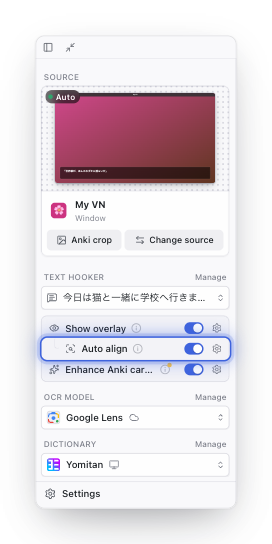
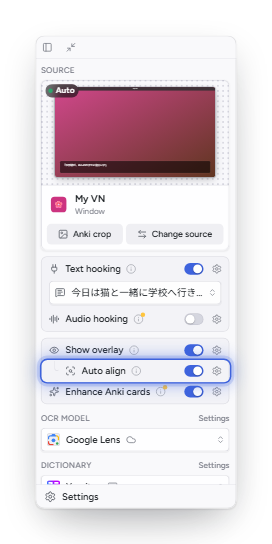
Docs and demo: Text hooking is a switch under a game's window
The guide, the site and the homepage demo follow the source panel: choose
the game's window, then turn on Text hooking (and Audio hooking). The demo's
mocks give each window its game, hook only once the switch is on, and the
tour walks through the switch instead of a Text Hooker grid. New screenshot
of the switch; the source-menu ones are gone.

diff --git a/frontend/dev/preview-setup.ts b/frontend/dev/preview-setup.ts
@@ -13,8 +13,10 @@
  *   ?theme=light|dark|system  seeds the `appearance` setting (default: system, i.e. the browser's
  *                    prefers-color-scheme; emulate it in DevTools for CSS that reads the media query)
  *   ?scale=small|medium|large|xlarge  seeds the `interfaceScale` setting
- *   ?input=ocr|clipboard|websocket|hook  main window: the Log's input source (hook: a hooked game
- *                                   with its threads; pair it with ?platform=windows)
+ *   ?input=ocr|clipboard|websocket|hook  main window: the Log's input source (hook: Text hooking
+ *                                   on for the chosen game, hooked with its threads; pair it with
+ *                                   ?platform=windows. With ocr there, the game's Text hooking box
+ *                                   shows with its switch off)
  *   ?quickshot=1     main window: Quick Shot (with input=ocr)
  *   ?nosource=1      main window: no window or screen chosen yet (choosing one in Change source
  *                    selects it: the view state follows `commit_source`, `clear_source` and the
@@ -248,17 +250,46 @@ const HOOK_THREADS = [
   { key: '1:2:4f2b:0', name: 'DrawTextW', hookcode: 'HQ-24@0:user32.dll:DrawTextW', preview: 'ミサキ', count: 12, generic: true, selected: false },
   { key: '1:3:5164:0', name: 'DrawTextExW', hookcode: 'HQ-24@0:user32.dll:DrawTextExW', preview: 'オート　スキップ　セーブ', count: 3, generic: true, selected: false }
 ]
-/** Embedded: the site's demo has hooked its game once (see `texthook_start`). */
-let embedHooked = false
+/** The hooked game of `?input=hook` (Settings → Text Hooker's first game). */
+const PRESET_EXE = 'C:/Games/Moonlit Harbor/Game.exe'
+/**
+ * The game behind a window, as `texthook_targets` names it. Outside the site's demo the preset
+ * window is the preset game; elsewhere (and always in the demo, whose game is new to Kimochi) a
+ * game of its own, so Text hooking starts off for it.
+ */
+function hookExeOf(source: DemoSource): string {
+  if (!EMBED && source.id === 'window:101') return PRESET_EXE
+  const app = source.app ?? source.name
+  return `C:/Games/${app}/${app.replace(/[^\w]+/g, '')}.exe`
+}
+/**
+ * Embedded: what the demo's own game starts as once hooked (new to Kimochi, Auto align off), by
+ * game key. Kept under every write of `textHookerGames`, so the source panel's own write of its
+ * Text hooking switch, racing `texthook_start`, cannot drop it.
+ */
+const embedGames: HookGames = {}
+function withEmbedGames(games: HookGames, add?: string): HookGames {
+  const next = { ...games }
+  for (const [key, base] of Object.entries(embedGames))
+    if (next[key] || key === add) next[key] = { ...base, ...next[key] }
+  return next
+}
+/** The window that cannot be hooked (a tiny utility, "part of Windows"), outside the site's demo. */
+const UNHOOKABLE = EMBED ? null : 'window:107'
+/**
+ * The hook session. `?input=hook` starts with the chosen game hooked. In the site's demo otherwise
+ * nothing is hooked until the visitor turns Text hooking on (`texthook_start`).
+ */
+const PRESET_HOOKED = !EMBED || params.get('input') === 'hook'
 const HOOK_STATUS: Record<string, unknown> & { threads: typeof HOOK_THREADS } = {
   supported: true,
-  phase: 'hooked',
-  sourceId: 'window:101',
-  exe: 'C:/Games/Moonlit Harbor/Game.exe',
+  phase: PRESET_HOOKED ? 'hooked' : 'idle',
+  sourceId: PRESET_HOOKED ? 'window:101' : null,
+  exe: PRESET_HOOKED ? (EMBED ? hookExeOf(SOURCES.find((s) => s.id === 'window:101')!) : PRESET_EXE) : null,
   engine: { id: 'luna', name: 'LunaHook', version: '12.1.3.8' },
   selected: HOOK_THREADS[0].key,
   selectedBy: 'auto',
-  threads: HOOK_THREADS
+  threads: PRESET_HOOKED ? HOOK_THREADS : []
 }
 
 // ---------------------------------------------------------------- settings store
@@ -279,7 +310,7 @@ const settings: Record<string, unknown> = {
   // Settings → Text Hooker: the hooked game, with a few settings of its own, and one hooked before.
   textHookerGames: {
     'c:/games/moonlit harbor/game.exe': {
-      exe: 'C:/Games/Moonlit Harbor/Game.exe',
+      exe: PRESET_EXE,
       sessionId: SESSION_IDS.steinsGate,
       name: 'Moonlit Harbor',
       addedAt: Date.now() - 9 * 86_400_000,
@@ -731,14 +762,16 @@ const DEMO_SETTINGS = new Set([
   'superTexthooker',
   'texthookerSourceSessions',
   'texthookerIngestedHistory',
-  // Auto align, and the Text Hooker's other per-game switches in the source panel.
+  // Text hooking, Auto align and the other per-game switches in the source panel.
   'textHookerGames'
 ])
 
 /** What a stopped setting is called on the site, for the ones the demo's own controls reach. */
 const DEMO_SETTING_LABELS: Record<string, string> = {
   ocrMode: 'Switching OCR models',
-  yomitanSettings: 'Switching dictionaries'
+  yomitanSettings: 'Switching dictionaries',
+  // Audio hooking, in the Text hooking box.
+  sentenceAudio: 'Changing sentence audio'
 }
 
 /** When the visitor last pressed or typed in this page (trusted events only). */
@@ -842,8 +875,9 @@ const HANDLERS: Record<string, Handler> = {
   settings_set: (a) => {
     if (a?.key === 'hasCompletedOnboarding' && params.get('step') === 'error')
       throw 'io: the settings file is read-only (preview)'
-    publish(String(a?.key), a?.value)
-    onModelSettingSet(String(a?.key), a?.value)
+    const value = EMBED && a?.key === 'textHookerGames' ? withEmbedGames((a.value as HookGames | null) ?? {}) : a?.value
+    publish(String(a?.key), value)
+    onModelSettingSet(String(a?.key), value)
     if (a?.key === 'textHookerGames') tellEmbedderState()
     return null
   },
@@ -927,14 +961,20 @@ const HANDLERS: Record<string, Handler> = {
       bounds: s.bounds,
       on_screen: s.on_screen
     })),
-  // Text Hooker (src-tauri/src/text_hook): every window but the first can be hooked (embedded in
-  // the site's demo, every one: its game may be the only window offered).
+  // Text hooking (src-tauri/src/text_hook): every window but one tiny utility can be hooked, each
+  // with its game's exe, which the source panel's Text hooking switch is kept by (embedded in the
+  // site's demo, every one: its game may be the only window offered).
   texthook_targets: (a) =>
     Object.fromEntries(
-      ((a?.sourceIds as string[] | undefined) ?? []).map((id, i) => [
-        id,
-        i === 0 && !EMBED ? { hookable: false, reason: 'this is part of Windows' } : { hookable: true, bits: 32 }
-      ])
+      ((a?.sourceIds as string[] | undefined) ?? []).map((id) => {
+        const source = ALL_SOURCES.find((s) => s.id === id)
+        return [
+          id,
+          !source || source.kind === 'display' || id === UNHOOKABLE
+            ? { hookable: false, reason: 'this is part of Windows' }
+            : { hookable: true, bits: 32, exe: hookExeOf(source) }
+        ]
+      })
     ),
   texthook_status: () => HOOK_STATUS,
   texthook_game: () => ({ thread: 'HS-4@1A2B3:Game.exe' }),
@@ -942,34 +982,48 @@ const HANDLERS: Record<string, Handler> = {
   texthook_forget: () => null,
   texthook_insert: () => null,
   texthook_start: (a) => {
-    // Hooking another window (the site's demo hooks its own game): that window's game.
+    // Hooking another window (the site's demo hooks its own game, once its Text hooking switch is
+    // turned on): that window's game.
     const source = ALL_SOURCES.find((s) => s.id === a?.sourceId)
-    // Embedded, the first hook is always a new one (the preset status already names the game's window).
-    if (source && (source.id !== HOOK_STATUS.sourceId || (EMBED && !embedHooked))) {
-      embedHooked = true
+    if (source && (source.id !== HOOK_STATUS.sourceId || HOOK_STATUS.phase === 'idle')) {
       HOOK_STATUS.sourceId = source.id
-      const app = source.app ?? source.name
-      HOOK_STATUS.exe = `C:/Games/${app}/${app.replace(/[^\w]+/g, '')}.exe`
+      const exe = hookExeOf(source)
+      HOOK_STATUS.exe = exe
       if (EMBED) {
         // The site's demo: the game is new to Kimochi, with Auto align off for the visitor to turn
-        // on, and hooking takes a moment (attaching, then the threads), as it does for real.
-        const exe = String(HOOK_STATUS.exe)
-        const games = { ...((settings.textHookerGames as HookGames | undefined) ?? {}) }
-        games[gameKey(exe)] = { exe, name: app, sessionId: SESSION_IDS.steinsGate, addedAt: Date.now(), hookedAt: Date.now(), autoAlign: false }
-        publish('textHookerGames', games)
+        // on (its Text hooking switch, just saved, is kept), and hooking takes a moment
+        // (attaching, then the threads), as it does for real.
+        const app = source.app ?? source.name
+        const key = gameKey(exe)
+        embedGames[key] ??= { exe, name: app, sessionId: SESSION_IDS.steinsGate, addedAt: Date.now(), autoAlign: false }
+        embedGames[key].hookedAt = Date.now()
+        publish('textHookerGames', withEmbedGames((settings.textHookerGames as HookGames | undefined) ?? {}, key))
         HOOK_STATUS.phase = 'attaching'
         HOOK_STATUS.threads = []
         setTimeout(() => {
+          if (HOOK_STATUS.sourceId !== source.id || HOOK_STATUS.phase !== 'attaching') return
+          // Hooked: the game's record again, past any write that raced the first one.
+          embedGames[key].hookedAt = Date.now()
+          publish('textHookerGames', withEmbedGames((settings.textHookerGames as HookGames | undefined) ?? {}, key))
           HOOK_STATUS.phase = 'hooked'
           HOOK_STATUS.threads = HOOK_THREADS.map((t) => ({ ...t, selected: t.key === HOOK_STATUS.selected }))
           pushHookStatus()
         }, 1800)
+      } else {
+        HOOK_STATUS.phase = 'hooked'
+        HOOK_STATUS.threads = HOOK_THREADS.map((t) => ({ ...t, selected: t.key === HOOK_STATUS.selected }))
       }
+      setTimeout(pushHookStatus, 0)
     }
     setTimeout(tellEmbedderState, 0)
     return { ...HOOK_STATUS }
   },
-  texthook_stop: () => ({ supported: true, phase: 'idle', threads: [] }),
+  // Clearing the source lets the game go: the next Text hooking switch on hooks it afresh.
+  texthook_stop: () => {
+    Object.assign(HOOK_STATUS, { phase: 'idle', sourceId: null, exe: null, threads: [] })
+    setTimeout(pushHookStatus, 0)
+    return { ...HOOK_STATUS }
+  },
   texthook_select: (a) => {
     const key = (a?.key as string | null) ?? null
     HOOK_STATUS.selected = key ?? HOOK_THREADS[0].key
@@ -1399,7 +1453,7 @@ function listenToEmbedder(): void {
       // A hooked game's line, as native sends it (src-tauri/src/text_hook): no scan, it just arrives.
       scriptStopped = true
       void emit('texthook-line', { text: message.text, key: HOOK_STATUS.selected, at: Date.now(), id: `embed-hook-${++embedScan}` })
-      // The thread's preview is the line it just read (the source panel's Text Hooker picker).
+      // The thread's preview is the line it just read (the Text hooking box's hooked text select).
       HOOK_STATUS.threads = HOOK_STATUS.threads.map((t) => (t.key === HOOK_STATUS.selected ? { ...t, preview: message.text, count: t.count + 1 } : t))
       pushHookStatus()
     } else if (message.type === 'theme') {

diff --git a/site/src/demo/LiveDemo.tsx b/site/src/demo/LiveDemo.tsx
@@ -10,7 +10,7 @@
  * play button. Play starts the guided tour (guide/Guide.tsx, scripted in guide/script.json): Mochiko,
  * in a visual-novel dialogue box, asks the visitor to open Kimochi and the game, choose the game as
  * the source (the real Change source menu, inside the iframe), turn on Auto OCR, look a word up,
- * add it to Anki, and optionally try the Text Hooker (a Windows desk, on other platforms). The game
+ * add it to Anki, and optionally turn on Text hooking for the game (a Windows desk, on other platforms). The game
  * waits on each line for a click, like a visual novel.
  *
  * The windows behave like windows, through a few light shims (frontend/dev/preview-setup.ts):
@@ -22,8 +22,8 @@
  * switches back, so the game is read only while Kimochi watches it with Auto OCR on, and the overlay
  * shows only with Show overlay on. Narrower screens, and reduced motion, get the two windows stacked, already set up.
  *
- * The platform comes in as a prop: the visitor's OS for the OCR tab, Windows for the Text Hooker
- * tab (`input="hook"`: the game is hooked from the source menu's Text Hooker, its lines arrive with
+ * The platform comes in as a prop: the visitor's OS for the OCR tab, Windows for the Text hooking
+ * tab (`input="hook"`: the game's window with its Text hooking switch on, its lines arrive with
  * no scan, and Kimochi's card sits over its text), `deck` for Handheld mode. On the desk, words are
  * looked up as in the app, with Shift held: the scripted session shows the key held (bottom left)
  * for each lookup, and a visitor's own mouse needs it too (a tap does it on a touch screen).
@@ -64,8 +64,8 @@ export interface LiveDemoProps {
   /** The platform to show: the visitor's OS for the Desktop tab, `deck` for Gaming mode. */
   platform?: Platform
   /**
-   * How Kimochi reads the game on the desktop: `ocr` (a window, Auto OCR) or `hook` (the Text
-   * Hooker: the game's own text, no scanning; a Windows desktop).
+   * How Kimochi reads the game on the desktop: `ocr` (a window, Auto OCR) or `hook` (its window with
+   * Text hooking on: the game's own text, no scanning; a Windows desktop).
    */
   input?: 'ocr' | 'hook'
 }
@@ -133,7 +133,7 @@ interface LogState {
   autoOcr: boolean
   overlay: boolean
   input: string
-  /** The Text Hooker's phase (attaching, hooked…), or null when not reported. */
+  /** The hook session's phase (attaching, hooked…), or null when not reported. */
   hookPhase: string | null
   /** Auto align for the hooked game. */
   autoAlign: boolean
@@ -141,7 +141,7 @@ interface LogState {
 
 export function LiveDemo({ className = '', platform: chosen, input = 'ocr' }: LiveDemoProps) {
   const detected = useGuessedPlatform()
-  // The guide can move the desk to Windows for the Text Hooker (it works on Windows and Linux).
+  // The guide can move the desk to Windows for Text hooking (it works on Windows and Linux).
   const [override, setOverride] = useState<Platform | null>(null)
   const platform = override ?? chosen ?? detected
   const theme = useResolvedTheme()
@@ -242,7 +242,7 @@ export function LiveDemo({ className = '', platform: chosen, input = 'ocr' }: Li
   }, [scrollLog])
 
   // Kimochi is reading a window: it is running (not quit), and that window is its source with Auto
-  // OCR on, or (the Text Hooker) hooked. Off the desk the windows are always open.
+  // OCR on, or (Text hooking on) hooked. Off the desk the windows are always open.
   const watching = (id: WindowId, source: string, how: 'ocr' | 'hook' = 'ocr'): boolean =>
     (!free || (open[id] && !quit)) &&
     logState.sourceId === source &&
@@ -511,7 +511,7 @@ export function LiveDemo({ className = '', platform: chosen, input = 'ocr' }: Li
       toDownload()
     }
     if (name === 'windowsDesk') {
-      // A Windows PC for the Text Hooker: Kimochi's window loads again, as on that PC, with both
+      // A Windows PC for Text hooking: Kimochi's window loads again, as on that PC, with both
       // windows open.
       setOverride('windows')
       setLogReady(false)
@@ -598,7 +598,7 @@ export function LiveDemo({ className = '', platform: chosen, input = 'ocr' }: Li
   const close = (id: WindowId) => (free ? () => setOpen((o) => ({ ...o, [id]: false })) : undefined)
   // `demo` only tells the tabs apart, so switching between them loads the Log afresh.
   const logParams: Record<string, string> = flow
-    ? // Show overlay starts off for the visitor to turn on; on the Text Hooker's Windows desk they
+    ? // Show overlay starts off for the visitor to turn on; on the Text hooking Windows desk they
       // already have.
       { nosource: '1', auto: '0', overlay: override ? '1' : '0', sidebar: '1', lines: '0', demo: input }
     : { sidebar: free ? '1' : '0', demo: input, ...(hook ? { input: 'hook' } : {}) }

diff --git a/site/src/content/faq.js b/site/src/content/faq.js
@@ -93,11 +93,11 @@ export const FAQ = [
     id: 'anki-and-texthookers',
     q: 'Does Kimochi work with Anki and texthookers?',
     a: [
-      'Yes. Kimochi adds cards to Anki through the AnkiConnect add-on, and can attach the spoken audio of the line you mined, cut from what your computer was playing. Kimochi’s built-in Text Hooker can read a Windows game’s text straight from the game, on Windows and, through Proton or Wine, on Linux and the Steam Deck. If you already hook text out of a visual novel, point Kimochi at your texthooker over WebSocket, or copy lines to the clipboard. owocr’s output works too.'
+      'Yes. Kimochi adds cards to Anki through the AnkiConnect add-on, and can attach the spoken audio of the line you mined, cut from what your computer was playing. With Text hooking, Kimochi can read a Windows game’s text straight from the game, on Windows and, through Proton or Wine, on Linux and the Steam Deck. If you already hook text out of a visual novel, point Kimochi at your texthooker over WebSocket, or copy lines to the clipboard. owocr’s output works too.'
     ],
     links: [
       { href: docsUrl('/lookups/anki/'), label: 'Anki' },
-      { href: docsUrl('/reading/text-hooker/'), label: 'Text Hooker' },
+      { href: docsUrl('/reading/text-hooker/'), label: 'Text hooking' },
       { href: docsUrl('/reading/texthookers/'), label: 'Texthookers' }
     ]
   },

diff --git a/site/src/demo/guide/Guide.tsx b/site/src/demo/guide/Guide.tsx
@@ -84,7 +84,7 @@ export interface GuideFacts {
   /** Kimochi's source is the game (by OCR or hooked). */
   gameSource: boolean
   autoOcr: boolean
-  /** The game is hooked by the Text Hooker. */
+  /** The game is hooked, with Text hooking on. */
   hooked: boolean
   /** A line has reached the Log by OCR. */
   lineRead: boolean
@@ -96,13 +96,13 @@ export interface GuideFacts {
   /** Moved on to another line since the step began (a counter; see `nextLine`). */
   lineSeq: number
   nextLine: boolean
-  /** The desk is not Windows or Linux, where the Text Hooker works. */
+  /** The desk is not Windows or Linux, where Text hooking works. */
   notHookPlatform: boolean
   /** The demo is not maximised. */
   notMax: boolean
   /** Show overlay is on. */
   overlay: boolean
-  /** The visitor chose the game in the Text Hooker (it may still be hooking). */
+  /** The game is the source with its Text hooking switch on (it may still be hooking). */
   hookStarted: boolean
   /** Auto align is on for the hooked game. */
   autoAlign: boolean

diff --git a/site/src/components/home/visuals/TextHookerVisual.tsx b/site/src/components/home/visuals/TextHookerVisual.tsx
@@ -2,7 +2,7 @@ import { AArrowDown, AArrowUp, Ellipsis } from 'lucide-react'
 import { VisualFrame } from './parts'
 
 /**
- * The Text Hooker (Windows): the hooked line in its card over the game (`ui/hook-card.js`), with
+ * Text hooking (Windows games): the hooked line in its card over the game (`ui/hook-card.js`), with
  * Auto align setting it over the game's own text box. The card's bar along its top moves it; −/+
  * and ⋯ sit along its bottom, as in the app. Uses the Overlay card's scene (`.overlay-scene`).
  */
@@ -30,7 +30,7 @@ export function TextHookerVisual() {
           </div>
         </div>
         <span className="absolute top-2.5 left-1/2 -translate-x-1/2 rounded-full bg-[var(--scene-chip)] px-2 py-0.5 text-[10px] font-medium whitespace-nowrap text-[var(--scene-chip-ink)]">
-          Text Hooker · LunaHook
+          Text hooking · LunaHook
         </span>
       </div>
     </VisualFrame>

diff --git a/site/src/components/home/features.ts b/site/src/components/home/features.ts
@@ -53,8 +53,8 @@ export const features: Feature[] = [
   },
   {
     id: 'text-hooker',
-    title: 'Text Hooker',
-    body: "Kimochi can read a game's text directly from the game and show each line in a card over the game. It hooks Windows games on Windows, and on Linux and Steam Deck through Proton or Wine.",
+    title: 'Text hooking',
+    body: "Pick a game's window, turn on Text hooking, and Kimochi reads its text directly from the game, with each line in a card over the game. It hooks Windows games on Windows, and on Linux and Steam Deck through Proton or Wine.",
     Visual: TextHookerVisual,
     docs: '/reading/text-hooker/',
     tag: 'windows'

diff --git a/frontend/dev/studio/surfaces.ts b/frontend/dev/studio/surfaces.ts
@@ -293,7 +293,7 @@ const MAIN: Surface = {
           param: 'input',
           label: 'Log input',
           default: 'ocr',
-          options: opts(['ocr', 'Screen (OCR)'], ['clipboard', 'Clipboard'], ['websocket', 'Texthooker (WebSocket)'], ['hook', 'Text Hooker'])
+          options: opts(['ocr', 'Window (OCR)'], ['hook', 'Window (Text hooking on)'], ['clipboard', 'Clipboard'], ['websocket', 'Texthooker (WebSocket)'])
         },
         { kind: 'toggle', param: 'nosource', label: 'No source chosen', on: '1' },
         {

diff --git a/site/src/components/home/DemoShowcase.tsx b/site/src/components/home/DemoShowcase.tsx
@@ -4,7 +4,7 @@ import { PlatformStrip } from './PlatformStrip'
 
 /**
  * "Runs on", then the live preview: a desktop dressed as the visitor's own OS, where Mochiko guides
- * them through Kimochi (OCR, look-ups, Anki, and the Text Hooker). `id="demo"` is the header nav's anchor.
+ * them through Kimochi (OCR, look-ups, Anki, and Text hooking). `id="demo"` is the header nav's anchor.
  */
 export function DemoShowcase() {
   const guessed = useGuessedPlatform()

diff --git a/site/src/components/home/HowItWorks.tsx b/site/src/components/home/HowItWorks.tsx
@@ -10,7 +10,7 @@ const STEPS = [
   {
     n: '二',
     title: 'Scan / Read',
-    body: "Press Scan, or turn on Auto OCR. With the Text Hooker, lines come in by themselves. Turn on the overlay if you're feeling funky."
+    body: "Press Scan, or turn on Auto OCR. With Text hooking on, lines come in by themselves. Turn on the overlay if you're feeling funky."
   },
   {
     n: '三',
